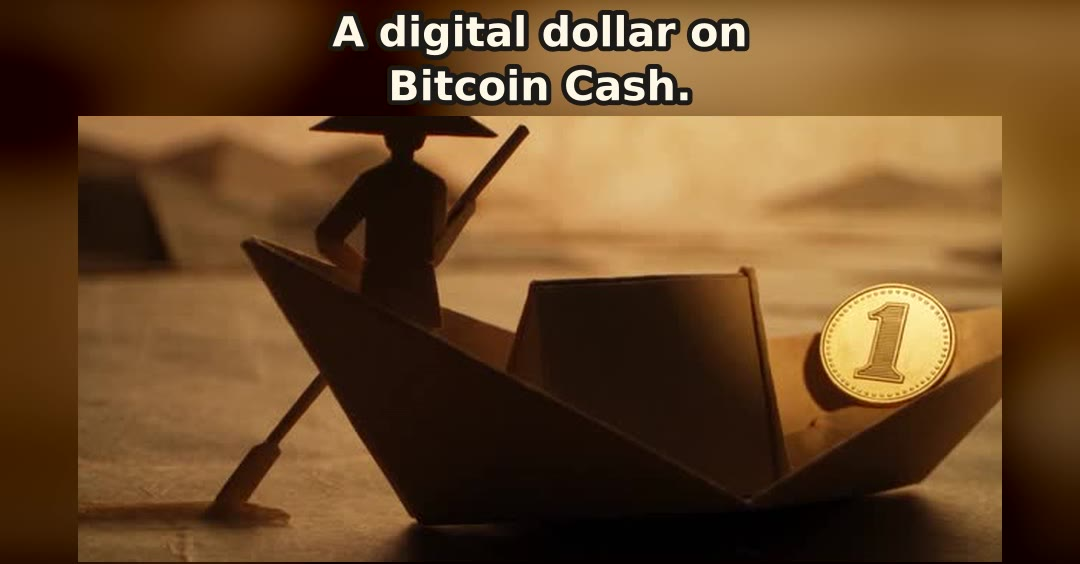
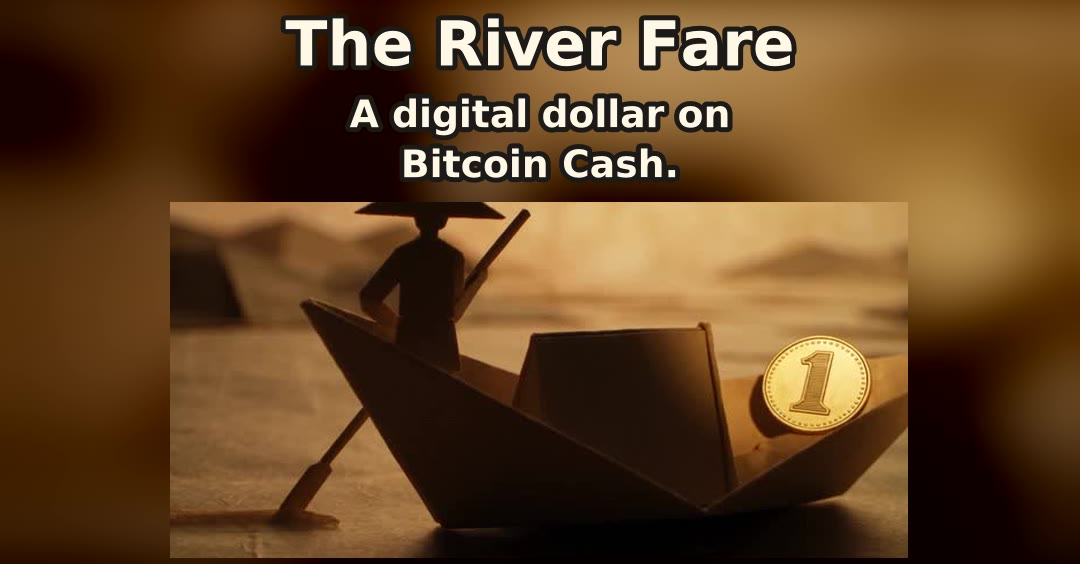
K2 fix: the title sits inside the 1.91:1 preview crop with the hook, rower and coin; check_layout reports a title outside that box and a test fails on the first layout

diff --git a/tools/og.py b/tools/og.py
@@ -48,18 +48,19 @@ def centre_box(og, height):
 
 
 def check_layout(og, text):
-    """Problems with the layout: the hook, the picture and the figure must sit where each preview crop keeps them."""
+    """Problems with the layout: title, hook and picture inside the 1.91:1 box (so also the 1:1 box), figure inside 1:1."""
     problems = []
     t191, b191 = centre_box(og, og["crops"]["191"]["height"])
     t11, b11 = centre_box(og, og["crops"]["1x1"]["height"])
     hook_bottom = og["hook"]["y"] + og["hook"]["line_px"] * len(text["hook"])
     pic_top, pic_bottom = og["picture"]["y"], og["picture"]["y"] + og["picture"]["height"]
+    title_bottom = og["title"]["y"] + og["title"]["size"]
+    if og["title"]["y"] < t191 or title_bottom > og["hook"]["y"]:
+        problems.append("title is not inside the 1.91:1 box above the hook")
     if og["hook"]["y"] < t191 or hook_bottom > pic_top:
         problems.append("hook caption is not inside the 1.91:1 box above the picture")
     if pic_top < t191 or pic_bottom > b191:
         problems.append("picture is not inside the 1.91:1 box")
-    if og["title"]["y"] < t11 or og["title"]["y"] + og["title"]["size"] > og["hook"]["y"]:
-        problems.append("title is not inside the 1:1 box above the hook")
     if og["figure"]["y"] < pic_bottom or og["label"]["y"] + og["label"]["size"] > b11:
         problems.append("figure is not inside the 1:1 box below the picture")
     if og["domain"]["y"] + og["domain"]["size"] > og["height"]:

diff --git a/tests/test_og.py b/tests/test_og.py
@@ -57,6 +57,17 @@ class LayoutTest(unittest.TestCase):
         bad["hook"]["y"] = 100
         self.assertTrue(any("hook" in p for p in og.check_layout(bad, TEXT)))
 
+    def test_title_above_the_wide_crop_is_reported(self):
+        # The first K2 layout: title at y 168, only inside the 1:1 box, so a 1.91:1 preview lost it.
+        bad = copy.deepcopy(OG)
+        bad["title"] = {"y": 168, "size": 96}
+        self.assertTrue(any("title" in p for p in og.check_layout(bad, TEXT)))
+
+    def test_title_on_the_hook_is_reported(self):
+        bad = copy.deepcopy(OG)
+        bad["title"]["y"] = bad["hook"]["y"] - bad["title"]["size"] // 2
+        self.assertTrue(any("title" in p for p in og.check_layout(bad, TEXT)))
+
     def test_command_scales_with_lanczos_and_draws_text_with_ass(self):
         cmd = og.og_cmd(OG, "frame.jpg", "og.ass", "out.jpg")
         graph = cmd[cmd.index("-filter_complex") + 1]

diff --git a/docs/decisions/0014-vertical-share-image.md b/docs/decisions/0014-vertical-share-image.md
@@ -15,8 +15,9 @@ differently: WhatsApp shows a square from the centre of a portrait image, Facebo
 - The text is the film's own: the title from `config/film.json`, the hook caption `film-05` ("A digital dollar on
   Bitcoin Cash.", fact `pusd-token`) and the 9:16 band with fact `fee-tx` ("219 sats", "the real fare"), plus the
   domain. It is drawn by ffmpeg's `ass` filter in the caption font and colours.
-- Layout rule, checked by `tools/og.py` before it runs ffmpeg: the hook, the rower and the coin sit inside the centre
-  1.91:1 box; the title and the fare figure are added inside the centre 1:1 box. `--crops` writes those two crops
+- Layout rule, checked by `tools/og.py` before it runs ffmpeg: the title, the hook, the rower and the coin sit inside
+  the centre 1.91:1 box (so a wide preview keeps the title too); the domain and the fare figure are added inside the
+  centre 1:1 box. `--crops` writes those two crops
   (`docs/frames/og-crop-1x1.jpg`, `og-crop-191.jpg`) so they can be read.
 - `twitter:image` stays the landscape thumbnail, because X crops a portrait image to 1.91:1 itself.
 - `og:video` (with `secure_url`, `type`, `width`, `height`) names the narrated 9:16 file the first player serves.
@@ -24,14 +25,17 @@ differently: WhatsApp shows a square from the centre of a portrait image, Facebo
 - `tools/site.py` stops the build when `og_image` is over `og_image_max_bytes`, or, while `og_image_portrait` is
   true, when it is not taller than it is wide.
 
-## Read in the images (2026-11-19)
-- `og-vertical.jpg` (92,390 bytes): blurred warm brown background; "The River Fare" in large cream letters with a
-  dark outline near the top; "A digital dollar on / Bitcoin Cash." in two smaller lines; below it the picture band:
-  the paper rower in a conical hat holding an oar at the stern of a folded paper boat, the gold coin with a raised
-  "1" in the bow on the right; under the picture "219 sats" large and "the real fare" small; the domain at the
-  bottom. No text touches the rower, the oar or the coin.
-- `og-crop-1x1.jpg`: title, hook, rower, boat, coin, "219 sats" and "the real fare" all inside; the domain is cut.
-- `og-crop-191.jpg`: the two hook lines at the top, then the rower, the boat and the coin; title and figure are cut.
+## Read in the images (2026-11-19, second layout)
+The first layout put the title above the 1.91:1 box, so a wide preview showed only the hook and the picture. The
+title now sits at the top of that box and the picture band is smaller (356 px high instead of 446).
+- `og-vertical.jpg` (84,620 bytes): blurred warm brown background; the domain in small letters high up; "The River
+  Fare" in large cream letters with a dark outline; "A digital dollar on / Bitcoin Cash." in two smaller lines; then
+  the picture band: the paper rower in a conical hat holding an oar at the stern of a folded paper boat, the gold
+  coin with a raised "1" in the bow on the right; under it "219 sats" large and "the real fare" small. No text
+  touches the rower, the oar or the coin.
+- `og-crop-1x1.jpg` (45,455 bytes): domain, title, hook, rower, boat, coin, "219 sats" and "the real fare".
+- `og-crop-191.jpg` (52,687 bytes): title at the top, the two hook lines, then the rower, the boat and the coin;
+  the figure is cut.
 
 ## Way back
 Config only: set `og_image` in `config/site.json` back to `docs/frames/thumbnail.jpg` and `og_image_portrait` to
